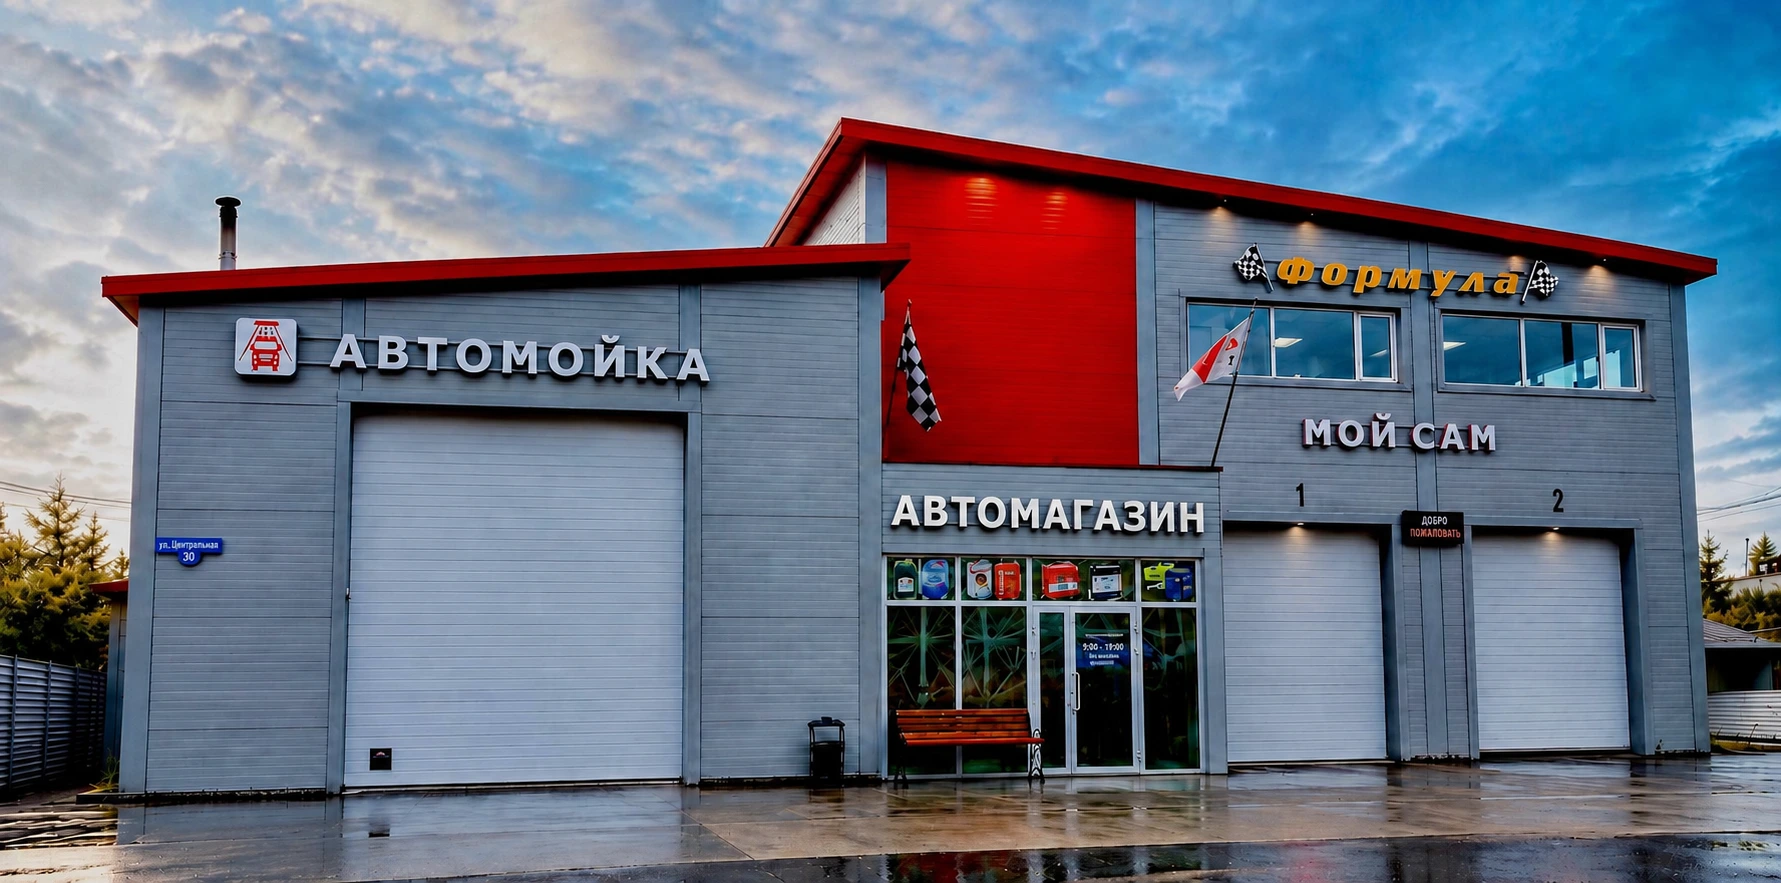
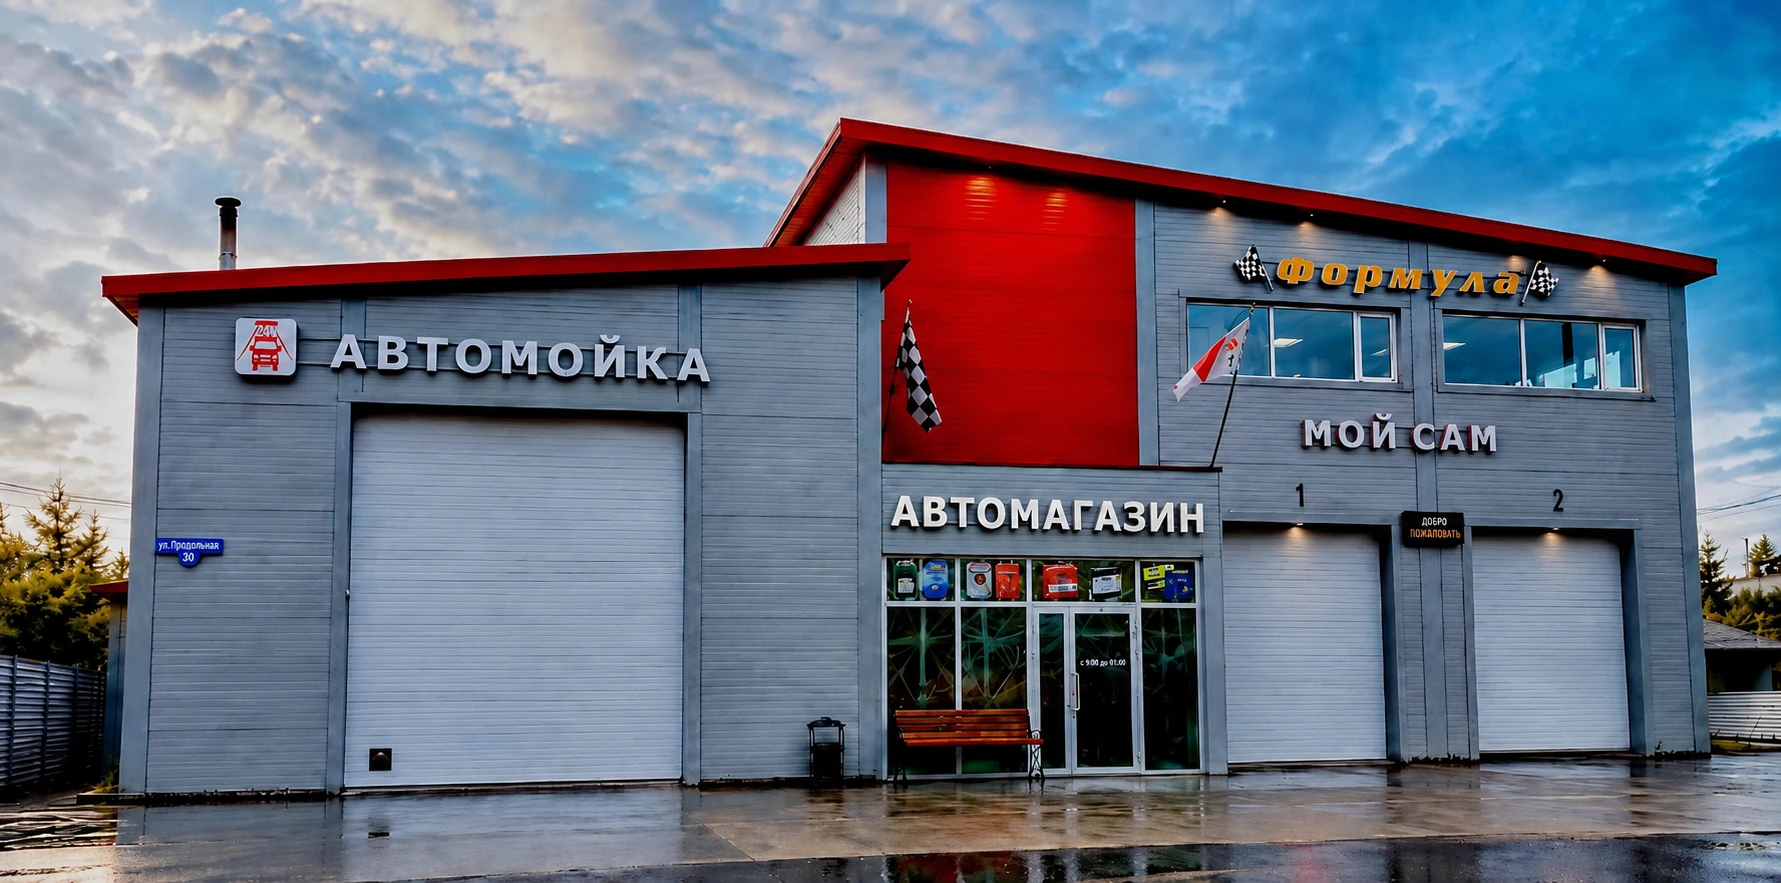
Кнопка 'записаться' у автомагазина поделена на две, поправил текст в футере и hero, заменил фон в hero

diff --git a/src/components/sections/Hero.tsx b/src/components/sections/Hero.tsx
@@ -25,14 +25,29 @@ export function Hero() {
   return (
     <section className="relative min-h-screen flex items-center justify-center overflow-hidden">
       <div className="absolute inset-0">
-        <Image
-          src={backgroundImage}
-          alt="Автокомплекс Формула в Магадане"
-          fill
-          className="object-cover"
-          priority
-          sizes="100vw"
-        />
+        {/* Фото для десктопа */}
+        <div className="absolute inset-0 hidden sm:block">
+          <Image
+            src={backgroundImage}
+            alt="Автокомплекс Формула в Магадане"
+            fill
+            className="object-cover object-[80%_center] lg:object-center"
+            priority
+            sizes="100vw"
+          />
+        </div>
+
+        {/* Фото для мобильных */}
+        <div className="absolute inset-0 block sm:hidden">
+          <Image
+            src="/images/background-mobile.webp"
+            alt="Автокомплекс Формула в Магадане"
+            fill
+            className="object-cover object-center"
+            priority
+            sizes="100vw"
+          />
+        </div>
         <div className="absolute inset-0 bg-linear-to-b from-black/30 via-black/50 to-black/80" />
       </div>
 
@@ -61,7 +76,7 @@ export function Hero() {
         </p>
 
         <p className="text-base text-white mb-10 max-w-2xl mx-auto drop-shadow-[0_2px_8px_rgba(0,0,0,0.8)]">
-          Ваш надежный автокомплекс для обслуживания автомобиля. У нас вы можете воспользоваться автомойкой, приобрести необходимые автотовары и выполнить грузовой шиномонтаж в одном месте.
+          Ваш надежный автокомплекс для обслуживания автомобиля. У нас вы можете воспользоваться автомойкой, приобрести автозапчасти, автотовары и выполнить грузовой шиномонтаж в одном месте.
         </p>
 
         <div className="flex flex-col sm:flex-row gap-4 justify-center flex-wrap">

diff --git a/src/components/sections/Services.tsx b/src/components/sections/Services.tsx
@@ -85,12 +85,20 @@ export function Services() {
 
                 <div className="mt-auto">
                   {service.id === 'shop' ? (
-                    <button
-                      onClick={() => setIsModalOpen(true)}
-                      className="w-full cursor-pointer inline-flex items-center justify-center px-8 py-4 text-base font-semibold rounded-lg transition-all duration-300 bg-red-600 hover:bg-red-700 text-white shadow-lg shadow-red-600/25"
-                    >
-                      Написать
-                    </button>
+                    <div className="flex gap-3">
+                      <a
+                        href={`tel:${servicePhones.shop}`}
+                        className="flex-1 cursor-pointer inline-flex items-center justify-center px-4 py-4 text-base font-semibold rounded-lg transition-all duration-300 border-2 border-white/30 text-white hover:bg-white/10 hover:border-white/50 text-center"
+                      >
+                        Позвонить
+                      </a>
+                      <button
+                        onClick={() => setIsModalOpen(true)}
+                        className="flex-1 cursor-pointer inline-flex items-center justify-center px-4 py-4 text-base font-semibold rounded-lg transition-all duration-300 bg-red-600 hover:bg-red-700 text-white shadow-lg shadow-red-600/25"
+                      >
+                        Написать
+                      </button>
+                    </div>
                   ) : (
                     <a
                       href={`tel:${servicePhones[service.id]}`}
@@ -143,18 +151,6 @@ export function Services() {
             </div>
           </a>
 
-          <a
-            href={`tel:${servicePhones.shop}`}
-            className="flex items-center gap-4 p-4 rounded-xl bg-red-600/20 border border-red-500/30 hover:bg-red-600/30 transition-colors"
-          >
-            <svg className="w-8 h-8 text-red-500 shrink-0" viewBox="0 0 24 24" fill="currentColor">
-              <path fillRule="evenodd" clipRule="evenodd" d="M5.73268 2.043C6.95002 0.832583 8.95439 1.04804 9.9737 2.40962L11.2347 4.09402C12.0641 5.20191 11.9909 6.75032 11.0064 7.72923L10.7676 7.96665C10.7572 7.99694 10.7319 8.09215 10.76 8.2731C10.8232 8.6806 11.1635 9.545 12.592 10.9654C14.02 12.3853 14.8905 12.7253 15.3038 12.7887C15.4911 12.8174 15.5891 12.7906 15.6194 12.78L16.0274 12.3743C16.9026 11.5041 18.2475 11.3414 19.3311 11.9305L21.2416 12.9691C22.8775 13.8584 23.2909 16.0821 21.9505 17.4148L20.53 18.8273C20.0824 19.2723 19.4805 19.6434 18.7459 19.7119C16.9369 19.8806 12.7187 19.6654 8.28659 15.2584C4.14868 11.144 3.35462 7.556 3.25415 5.78817L4.00294 5.74562L3.25415 5.78817C3.20335 4.89426 3.62576 4.13796 4.16308 3.60369L5.73268 2.043Z"/>
-            </svg>
-            <div className="text-left">
-              <div className="text-white font-semibold text-sm">Позвонить</div>
-              <div className="text-gray-400 text-xs">Прямой звонок в магазин</div>
-            </div>
-          </a>
         </div>
       </Modal>
     </>

diff --git a/next.config.ts b/next.config.ts
@@ -1,7 +1,10 @@
 import type { NextConfig } from "next";
 
 const nextConfig: NextConfig = {
-  /* config options here */
+  output: "export",
+  images: {
+    unoptimized: true,
+  },
 };
 
 export default nextConfig;

diff --git a/src/app/layout.tsx b/src/app/layout.tsx
@@ -25,7 +25,7 @@ export const metadata: Metadata = {
     images: ['/images/background.webp'],
   },
   verification: {
-    yandex: 'b3f929d5b8d107ca',
+    yandex: 'a77acfc030906ca1',
   },
 }
 

diff --git a/src/components/layout/Footer.tsx b/src/components/layout/Footer.tsx
@@ -34,7 +34,7 @@ export function Footer() {
                 ))}
               </div>
               <div>
-                <p className="text-xs text-gray-500 mb-1">Шиномонтаж</p>
+                <p className="text-xs text-gray-500 mb-1">Грузовой шиномонтаж</p>
                 {siteData.services[2].phones.map((phone) => (
                   <PhoneLink key={phone} phone={phone} variant="footer" className="block text-sm mb-1" />
                 ))}

diff --git a/src/lib/data.ts b/src/lib/data.ts
@@ -19,7 +19,7 @@ export const siteData: SiteData = {
     {
       id: 'shop',
       title: 'Автомагазин',
-      description: 'Большой выбор аккумуляторов, автохимии, масел, аксессуаров и расходных материалов.',
+      description: 'Большой выбор аккумуляторов, автохимии, масел, аксессуаров, автозапчастей и расходных материалов.',
       phones: ['+7 (924) 850-99-99', '212-999'],
       schedule: 'Ежедневно с 09:00 до 01:00',
       icon: '🛒',